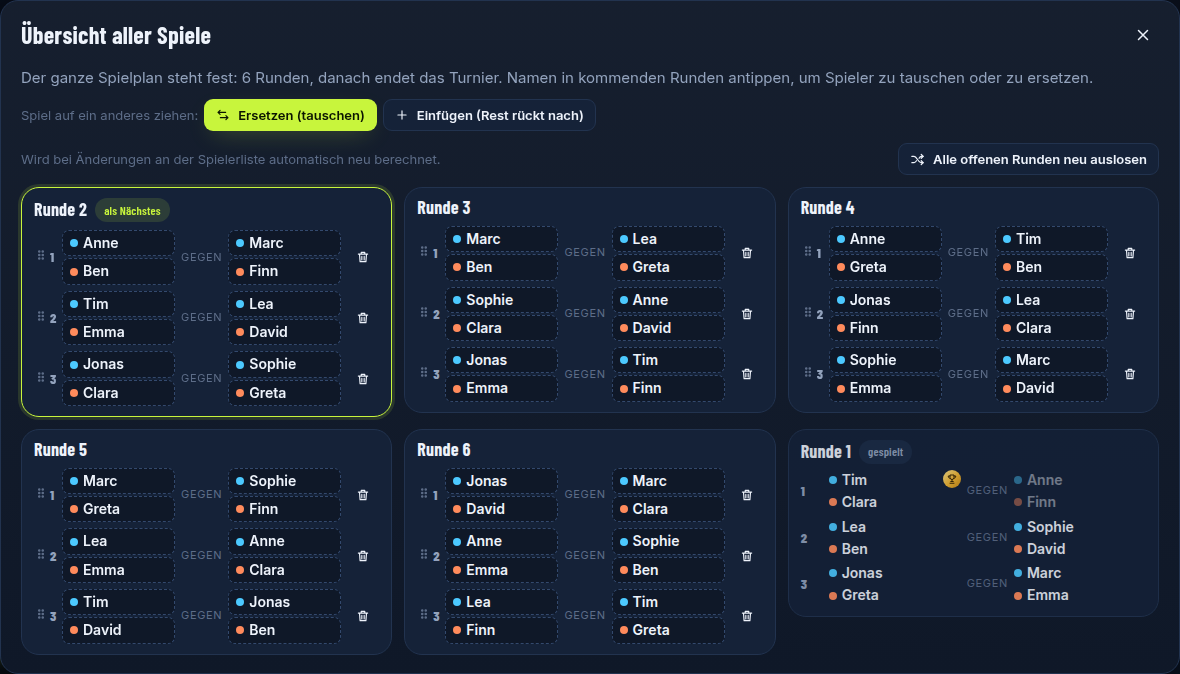
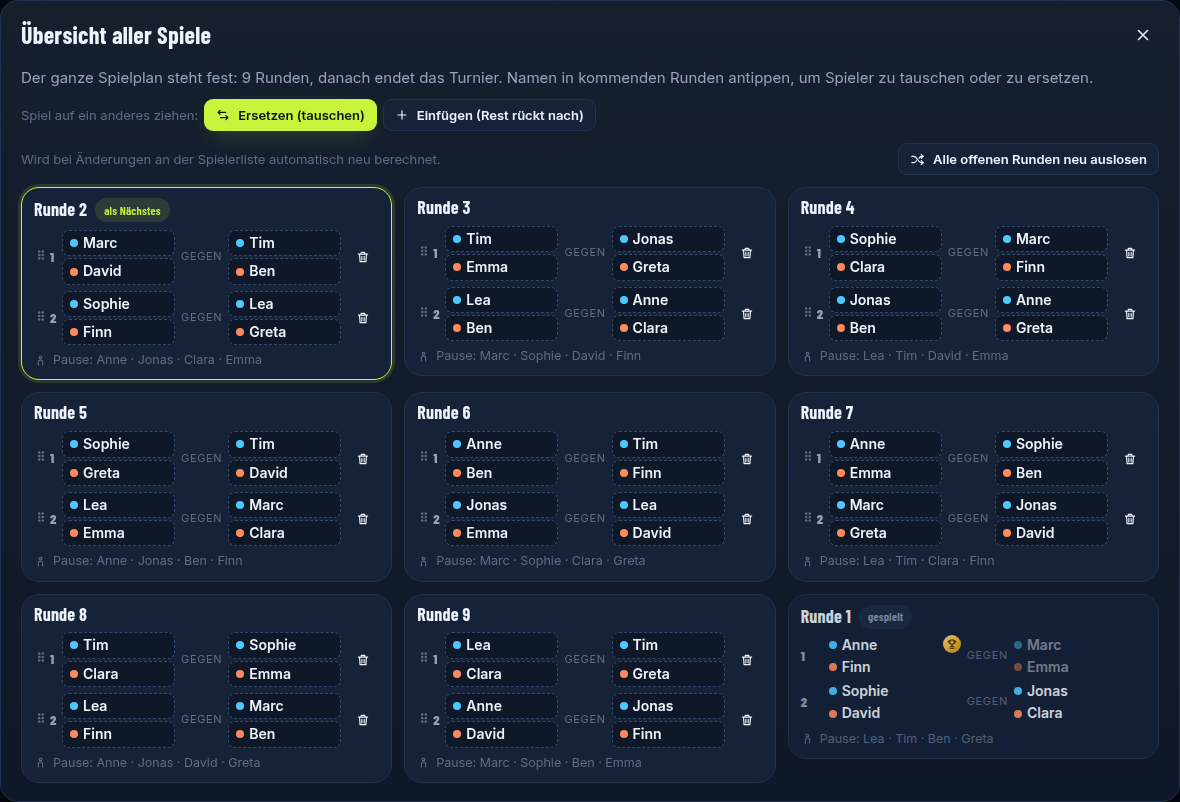
Nächste Runde: übernächste Runde (Danach) im freien Platz; Anleitung mit neuen Screenshots und Layout-Texten

diff --git a/src/ui/PlayBoard.svelte b/src/ui/PlayBoard.svelte
@@ -3,6 +3,7 @@
   import * as A from '../engine/actions';
   import { sittingOut } from '../engine/ranking';
   import { teamSize } from '../engine/types';
+  import { playerMap, teamLabel } from '../lib/names';
   import { dialogs } from '../lib/dialog.svelte';
   import { store } from '../lib/store.svelte';
   import { timer } from '../lib/timer.svelte';
@@ -34,6 +35,13 @@
   // alles vor der aktuellen Runde, neueste zuerst; nur die letzten 3 hier, der Rest im Verlauf
   const earlier = $derived(t.rounds.slice(0, -1).reverse());
   const SHOWN = 2;
+  // „Danach“: Ist neben der nächsten Runde noch Platz, erscheint die übernächste (nur wenn der Spielplan feststeht)
+  const names = $derived(playerMap(t));
+  const after = $derived(t.plan?.[0] ?? null);
+  let nextW = $state(0);
+  const tracks = $derived(Math.max(1, Math.floor((nextW + 8) / 208))); // wie viele 200-px-Spalten passen
+  const freeTracks = $derived(draft ? tracks - draft.matches.length : 0);
+  const showAfter = $derived(!!after && after.length > 0 && freeTracks >= 1);
 
   async function callNext() {
     const notes: string[] = [];
@@ -110,12 +118,25 @@
     {#each problems as p}<p class="alert alert-warning"><Icon name="warning" size={17} /> {p}</p>{/each}
 
     {#if draft && draft.matches.length}
-      <div class="courts">
+      <div class="courts" bind:clientWidth={nextW}>
         {#each draft.matches as m, i (m.court)}
           <div in:fly={{ y: 12, duration: 250, delay: i * 50 }}>
             <MatchCard {t} match={m} idx={i} roundRef={{ kind: 'draft' }} mode="draft" size="sm" />
           </div>
         {/each}
+        {#if showAfter && after}
+          <button class="after" style:grid-column="span {freeTracks}" onclick={() => (ui.scheduleOpen = true)} title="Alle Runden in der Übersicht ansehen und ändern">
+            <span class="eyebrow">Danach · Runde {nextNo + 1}</span>
+            <span class="am-list">
+            {#each after as m (m.court)}
+              <span class="am">
+                <b class="num">{m.court}</b>
+                <span class="who">{teamLabel(names, m.teamA)}<i>gegen</i>{teamLabel(names, m.teamB)}</span>
+              </span>
+            {/each}
+            </span>
+          </button>
+        {/if}
       </div>
       {#if restingNext.length}
         <p class="resting"><Icon name="pausePerson" size={15} /> <span class="muted">Pause:</span> {restingNext.map(p => p.name).join(' · ')}</p>
@@ -185,5 +206,16 @@
   }
   .next.first { border-style: solid; border-color: var(--accent); box-shadow: 0 0 0 4px var(--accent-soft); }
   .next-tools { display: flex; gap: 6px; flex-wrap: wrap; align-items: center; }
+  .after {
+    display: flex; flex-direction: column; gap: 6px; text-align: left; padding: 8px 10px; border-radius: var(--radius);
+    background: transparent; border: 1px dashed var(--border-strong); color: var(--fg-muted); cursor: pointer; min-width: 0;
+  }
+  .after:hover { border-color: var(--accent); color: var(--fg); }
+  .am-list { display: grid; grid-template-columns: repeat(auto-fit, minmax(190px, 1fr)); gap: 8px 14px; }
+  .am { display: grid; grid-template-columns: 18px minmax(0, 1fr); gap: 6px; align-items: start; font-size: 14px; line-height: 1.25; }
+  .am b { font-family: var(--font-display); font-size: 15px; color: var(--fg-faint); }
+  .who { display: flex; flex-direction: column; min-width: 0; color: var(--fg); }
+  .who { overflow-wrap: anywhere; }
+  .who i { font-style: normal; font-size: 11px; text-transform: uppercase; letter-spacing: 0.06em; color: var(--fg-faint); }
   .hint-names { margin: 0; font-size: 13px; }
 </style>

diff --git a/e2e/playboard.spec.ts b/e2e/playboard.spec.ts
@@ -130,3 +130,13 @@ test('Beamer folgt der Steuerung', async ({ page, context }) => {
   await page.getByRole('button', { name: /^Sieg für/ }).first().click();
   await expect(beamer.locator('.cno')).toHaveCount(2);
 });
+
+test('Schleifchenturnier: neben der nächsten Runde steht die übernächste, sofern Platz ist', async ({ page }) => {
+  await page.setViewportSize({ width: 1600, height: 900 });
+  await start(page, 2);
+  const after = page.locator('section.next .after');
+  await expect(after).toContainText('Danach · Runde 3');
+  await expect(after.locator('.am')).toHaveCount(2);
+  await page.setViewportSize({ width: 390, height: 844 });
+  await expect(after).toHaveCount(0); // zu schmal: keine zusätzliche Spalte
+});

diff --git a/e2e/docs-shots.spec.ts b/e2e/docs-shots.spec.ts
@@ -14,7 +14,6 @@ test('Anleitung fotografieren', async ({ page, context }) => {
   const dlgShot = async (title: string, name: string) => page.getByRole('dialog', { name: title }).screenshot({ path: `${OUT}/${name}.png` });
 
   // Vorbereitung
-  await page.getByRole('button', { name: 'Felder erhöhen' }).click();
   const g = page.getByPlaceholder('Name (Geübte) + Enter');
   await g.fill('Marc, Anne, Jonas, Lea, Tim, Sophie');
   await g.press('Enter');

diff --git a/docs/ANLEITUNG.md b/docs/ANLEITUNG.md
@@ -86,29 +86,38 @@ Grundeinstellungen gesperrt. Neue Spieler lassen sich weiterhin nachmelden.
 
 ## 2. Spielbetrieb
 
-Der Reiter **Spielbetrieb** ist der Hauptbildschirm während des Turniers und passt auf eine
-Bildschirmseite, ohne zu scrollen.
+Der Reiter **Spielbetrieb** ist der Hauptbildschirm während des Turniers. Bei üblichen
+Bildschirmen (ab 1600 × 900) passt er mit zwei Feldern ohne Scrollen auf eine Seite, bei kleineren
+Bildschirmen oder vielen Feldern wird kontrolliert gescrollt. Rechts bleiben Timer und Top 8
+sichtbar. Auf dem Handy steht der Timer oben, die Top 8 ganz unten.
 
 ![Spielbetrieb mit laufender Runde, nächster Runde, Timer und Top 8](img/04-spielbetrieb.png)
 
 
-- **Jetzt auf den Feldern:** Die laufende Runde steht groß im Vordergrund. Die Felder stehen
-  untereinander (bei vielen Feldern in Spalten) und nutzen die Bildschirmhöhe so gut wie
-  möglich. Ein Spiel ohne Ergebnis zeigt „läuft gerade“.
+- **Jetzt auf den Feldern:** Die laufende Runde steht groß im Vordergrund, darüber der Stand
+  der Ergebnisse („1 von 2 Ergebnissen erfasst“). Ein oder zwei Felder stehen nebeneinander,
+  drei bis vier in zwei Spalten, mehr in drei bis vier Spalten. Die Größe richtet sich nach
+  der Bildschirmhöhe, auf dem Handy stehen die Felder untereinander. Ein Spiel ohne Ergebnis
+  zeigt „läuft gerade“.
 - **Ergebnis eintragen:** Auf das Gewinnerteam tippen. Der Verlierer wird grau, beim Gewinner
   erscheint ein kleiner goldener Pokal. Nochmal tippen hebt das Ergebnis auf. Mit eingeschalteten
   Punkten trägst du die Punkte beider Teams ein, der Sieger ergibt sich daraus.
 - **Pause:** Wer in der Runde aussetzt, steht unter den Feldern.
-- **Als Nächstes:** Rechts steht die schon ausgeloste nächste Runde.
+- **Als Nächstes:** Unter den Feldern steht die schon ausgeloste nächste Runde.
   - Namen antippen: Spieler **tauschen oder ersetzen**.
+  - **Danach:** Ist neben der nächsten Runde noch Platz und steht der Spielplan fest
+    (Schleifchenturnier), zeigt ein Kasten die übernächste Runde. Antippen öffnet die
+    **Übersicht**.
   - **Neu auslosen:** würfelt neu. Beim Schleifchenturnier werden alle noch nicht gestarteten
     Runden neu gelost.
   - **+ Match:** zusätzliches Spiel aus pausierenden Spielern, wenn ein Feld frei ist.
   - Von Hand geänderte Runden sind als „von Hand angepasst“ markiert und werden nicht mehr
     automatisch überschrieben.
-- **Runde x starten:** Ruft die nächste Runde auf die Felder. Fehlen noch Ergebnisse oder läuft
-  der Timer noch, fragt die App vorher nach. Fehlende Ergebnisse lassen sich später nachtragen.
-- **Bereits gespielt:** Die letzten Runden stehen darunter. Team antippen ändert den Sieger,
+- **Runde x starten:** Der Knopf steht oben im Block „Als Nächstes“ und ruft die nächste Runde auf
+  die Felder. Sind alle Ergebnisse eingetragen, ist er hervorgehoben. Fehlen noch Ergebnisse oder
+  läuft der Timer noch, fragt die App vorher nach. Fehlende Ergebnisse lassen sich später
+  nachtragen.
+- **Bereits gespielt:** Die letzten Runden stehen neben der nächsten Runde. Team antippen ändert den Sieger,
   Punkte lassen sich direkt korrigieren. Der Gewinner ist am Pokal und an der grünen Schrift zu
   erkennen. Alle Runden stehen im **Verlauf**.
 
